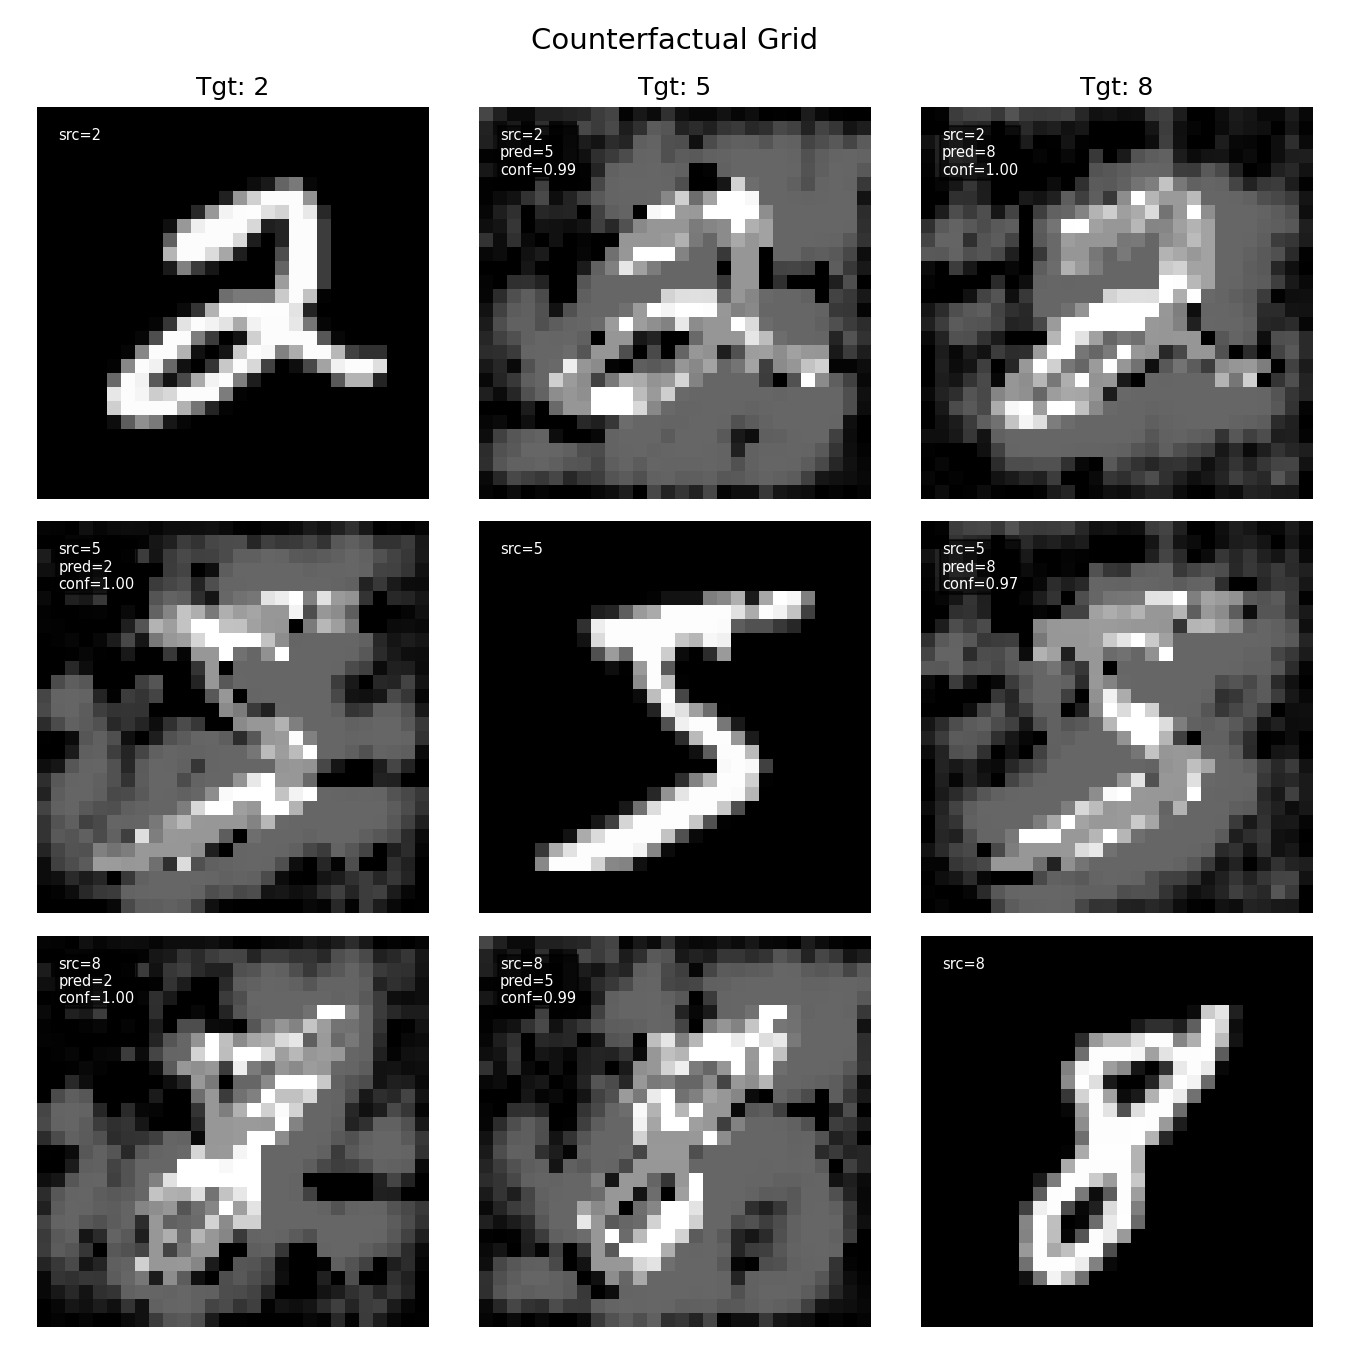
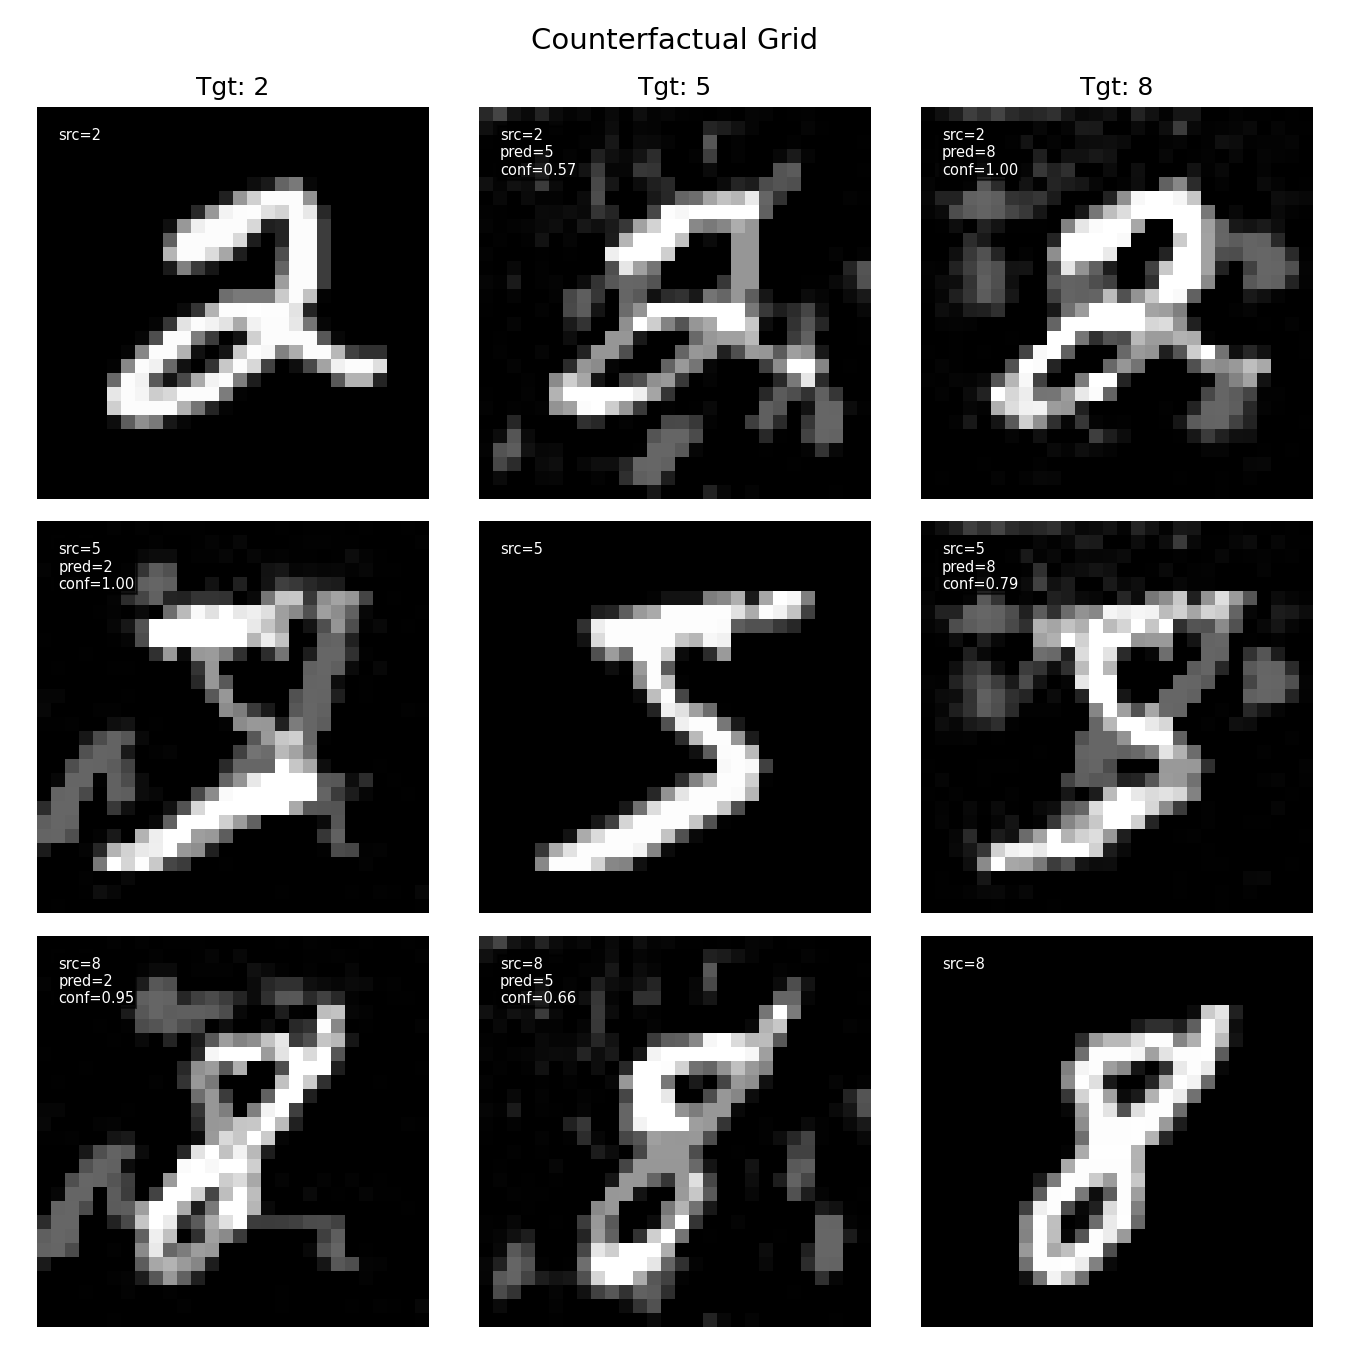
mnist better

diff --git a/conditional_counteRGAN/mnist/config.py b/conditional_counteRGAN/mnist/config.py
@@ -8,10 +8,10 @@ class Config:
     num_epochs_clf = 10
     cls_lr = 1e-3
     d_lr = 1e-4
-    g_lr = 1e-4
+    g_lr = 3e-4
     lambda_cls = 1.0
-    lambda_reg = 1.0
-    lambda_gp = 3.0
+    lambda_reg = 5.0
+    lambda_gp = 2.0
 
     latent_dim = 100
     img_shape = (1, 28, 28)
